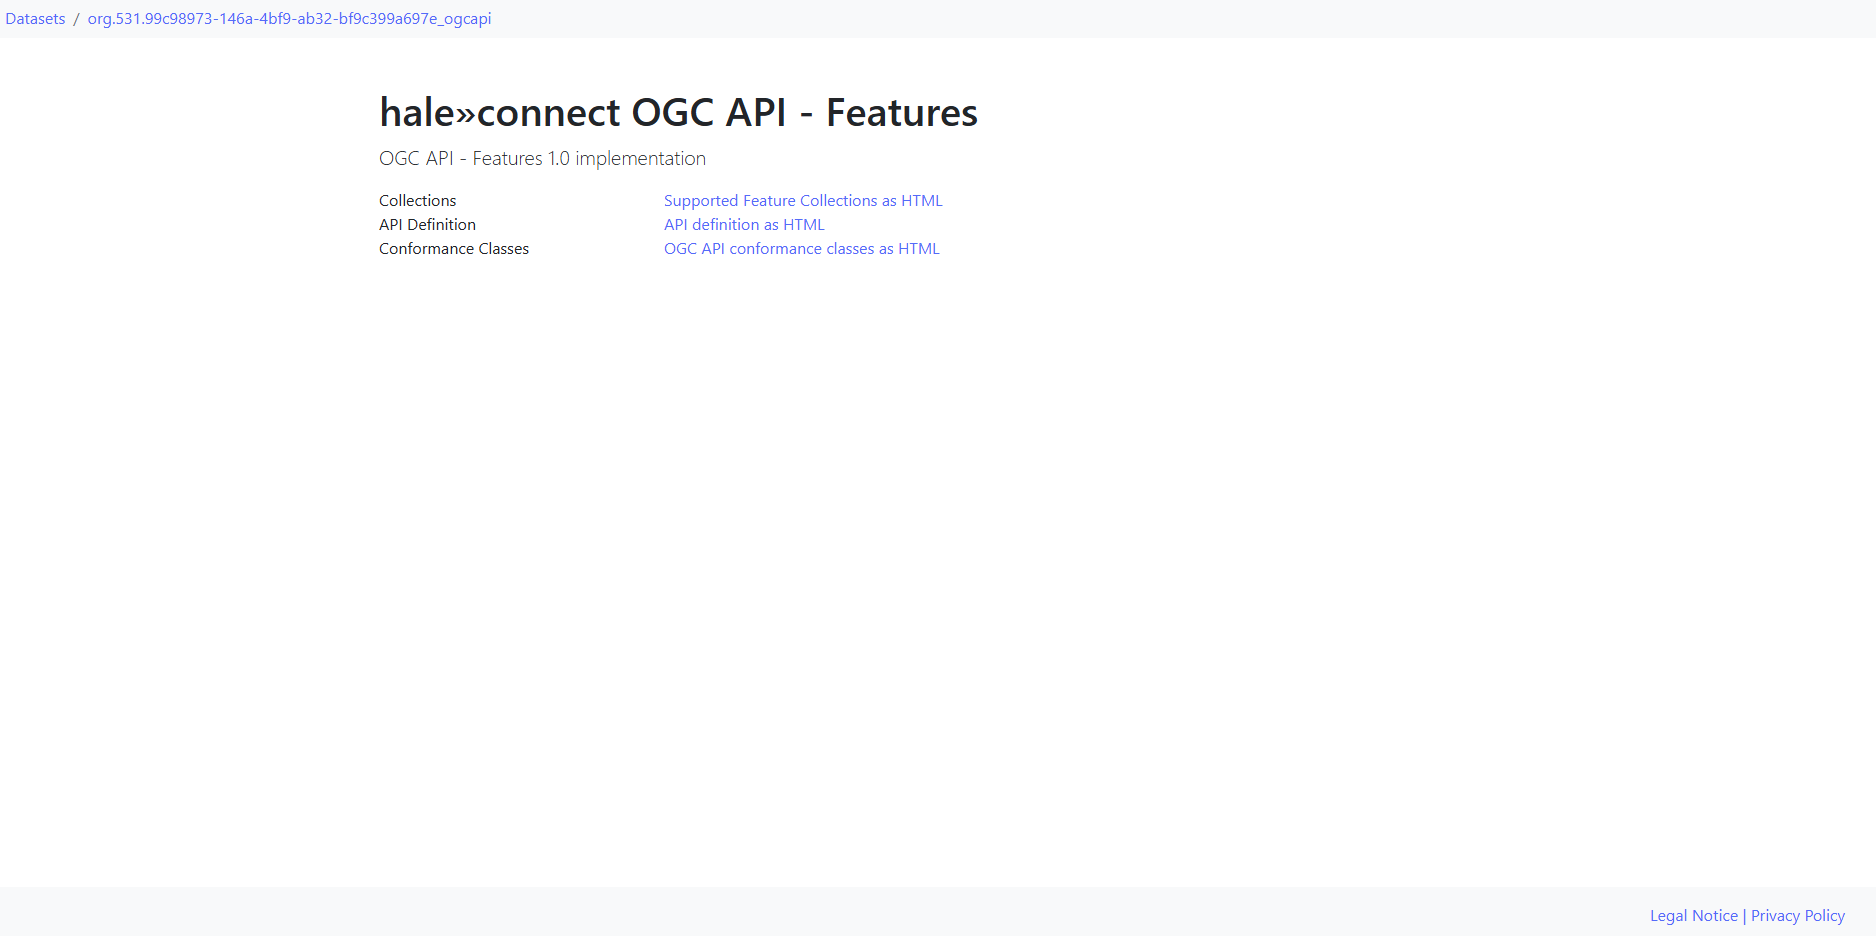
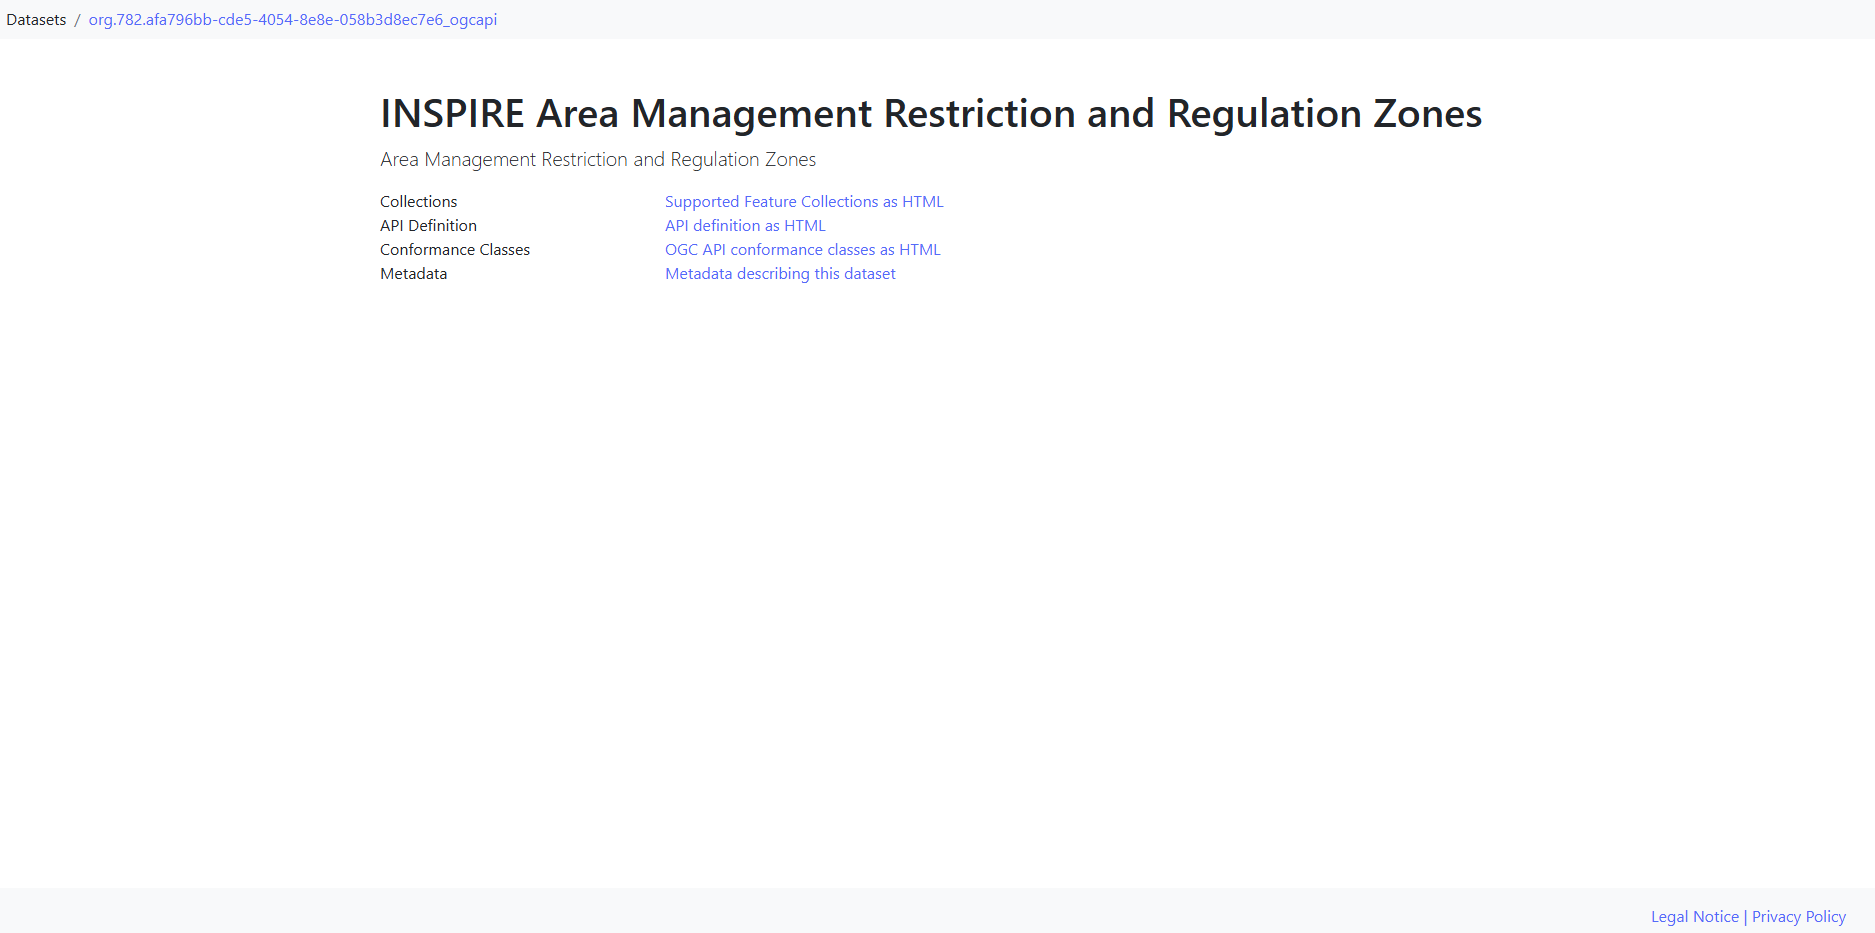
docs: update OGC API Features documentation pages with recent changes

Changed region(s): [[0.1856, 0.0932, 0.8043, 0.3108], [0.0, 0.0, 0.2784, 0.0311], [0.8661, 0.9636, 0.9899, 0.9946]]

diff --git a/i18n/de/docusaurus-plugin-content-docs/current/tutorials/2025-01-31-ogc-api-features.md b/i18n/de/docusaurus-plugin-content-docs/current/tutorials/2025-01-31-ogc-api-features.md
@@ -14,7 +14,7 @@ Nachdem ein mit OGC API - Features konfigurierter Datensatz erfolgreich publizie
 <a className="image-news text-center col-xs-12 mt mb"><img src={require("/images/help/de/tutorial_ogc_api_features_download_dienste.png").default} alt="" title="Navigation zu OGC-API-Features-Download-Diensten" className="img-responsive center-block"/>
 </a>
 
-Der Link leitet Sie zu einer Seite weiter auf der Sie jeweils auf die HTML-Darstellungen der unterstützten Feature-Sammlungen, der API-Defintion, und der OGC-API-Komformitätsklasse zugreifen können.
+Der Link leitet Sie zu einer Seite weiter auf der Sie jeweils auf die HTML-Darstellungen der unterstützten Feature-Sammlungen, der API-Defintion, der OGC-API-Komformitätsklasse, sowie auf die XML-Darstellung der Metadaten zugreifen können.
 In der rechten unteren Ecke der Seite befinden sich Links die zu den rechtlichen Hinweisen und der Datenschutzrichtlinie von wetransform führen.
 
 <a className="image-news text-center col-xs-12 mt mb"><img src={require("/images/help/en/tutorial_ogc_api_features_landingpage.png").default} alt="" title="Hauptansicht der OGC-API-Features-Download-Dienste" className="img-responsive center-block"/>

diff --git a/docs/tutorials/2025-01-31-ogc-api-features.md b/docs/tutorials/2025-01-31-ogc-api-features.md
@@ -13,7 +13,7 @@ After sucessfully publishing a dataset with OGC API - Features enabled, the OGC 
 <a className="image-news text-center col-xs-12 mt mb"><img src={require("/images/help/en/tutorial_ogc_api_download_services.png").default} alt="" title="Navigating to OGC API - Features Download Services" className="img-responsive center-block"/>
 </a>
 
-You will then be directed to a page where you can access the supported Feature Collection as HTML, the API definition as HTML, and the OGC API conformance classes as HTML. 
+You will then be directed to a page where you can access the supported Feature Collection as HTML, the API definition as HTML, the OGC API conformance classes as HTML, and the metadata of the dataset as XML. 
 In the right hand corner of the page there are links leading you to the legal notice and the privacy policy of wetransform.
 
 <a className="image-news text-center col-xs-12 mt mb"><img src={require("/images/help/en/tutorial_ogc_api_features_landingpage.png").default} alt="" title="Main View of OGC API - Features Download Services" className="img-responsive center-block"/>
